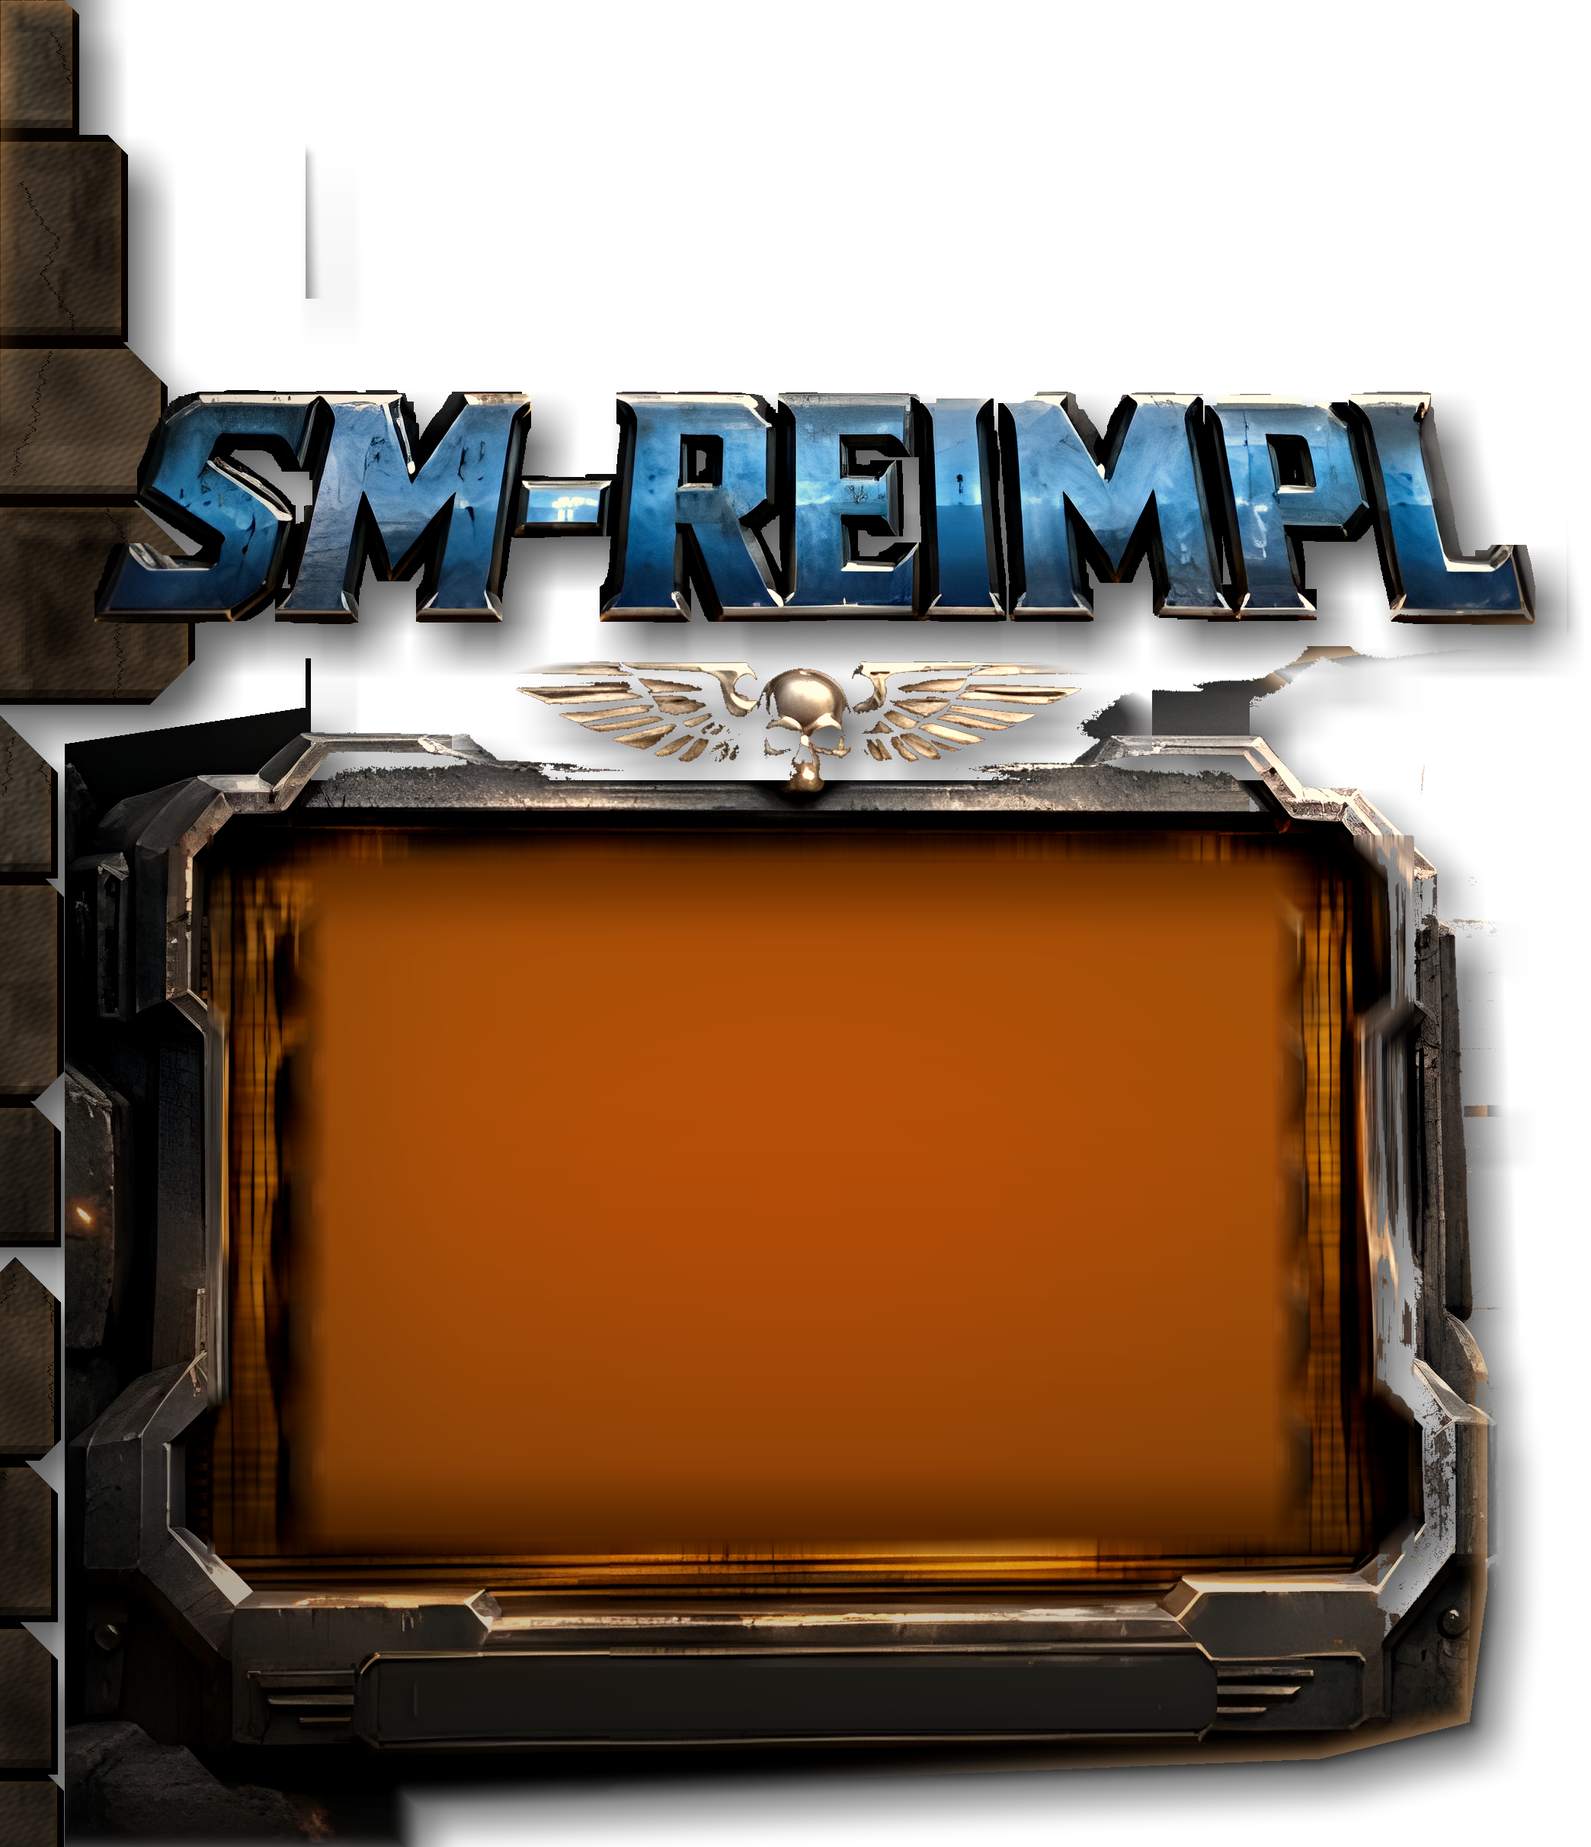
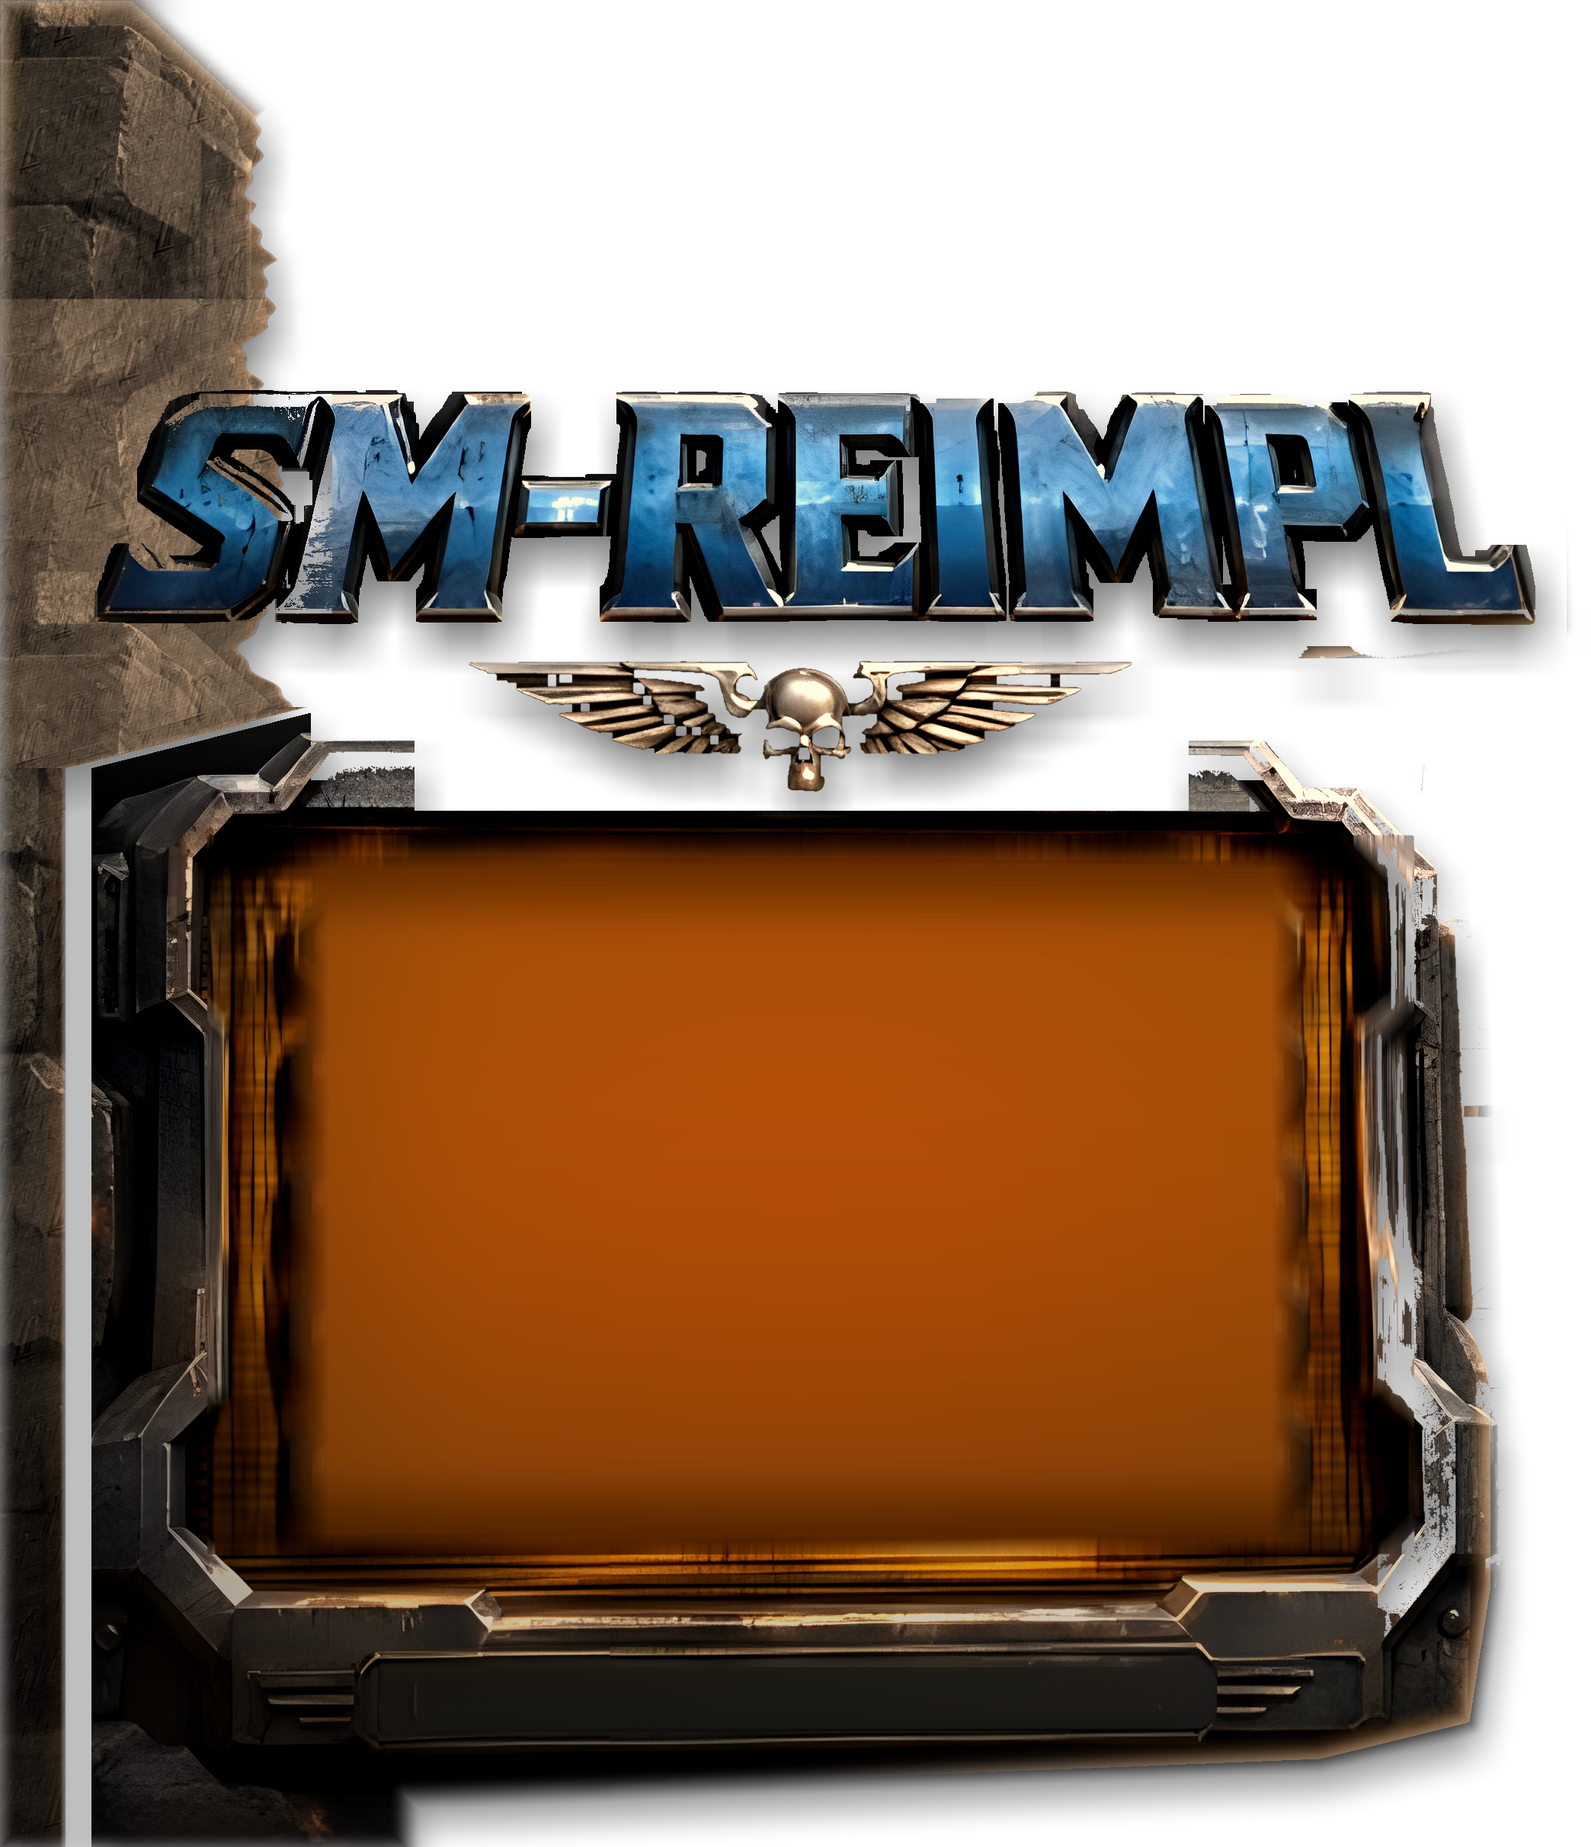
UI concept redesign, phases 2h and 2i: graded concept wall, crest matte from the 4x upscale, sky band removed, edge hugs the steel
UI self-test 1234 pass; the one failure also fails on main.

diff --git a/client/Customizer/UiTextureBuilder.cs b/client/Customizer/UiTextureBuilder.cs
@@ -75,7 +75,7 @@ public static class UiTextureBuilder
     /// <summary>The owner's orange line (his marked image, 2026-11-15) in crop pixels: everything inside is kept, outside is transparent, the edge feathered.</summary>
     static readonly Vector2[] OverlayOutline =
     [
-        new(0, 0), new(43, 0), new(99, 52), new(101, 106), new(505, 110), new(512, 205), new(416, 219), new(440, 237), new(466, 247), new(488, 276), new(488, 520),
+        new(0, 0), new(43, 0), new(99, 52), new(101, 106), new(505, 110), new(512, 205), new(416, 219), new(440, 237), new(462, 247), new(476, 262), new(478, 306), new(485, 312), new(485, 432), new(489, 446), new(489, 520),
         new(482, 565), new(433, 577), new(133, 589), new(133, 606), new(0, 606),
     ];
 
@@ -145,6 +145,12 @@ public static class UiTextureBuilder
                 {
                     // A one-pixel soft edge on the dilated mask.
                     float a = dil[y * W + x];
+                    if (x < (int)(94 * sf))
+                    {
+                        // Against the wall: dark stone stays, the concept's lighter sky between the letters goes.
+                        var q = img.GetPixel(x, y);
+                        if (Mathf.Max(q.R, Mathf.Max(q.G, q.B)) < 0.31f && q.B < q.R + 0.1f) a = 1f;
+                    }
                     bandAlpha[y * W + x] = a;
                 }
             // Under the wordmark, round the crest and along the frame's top: the concept's sky is keyed out (flood from the sky's own grey, generous tolerance); the letters' dark outline, the crest and the steel stay.
@@ -164,6 +170,9 @@ public static class UiTextureBuilder
                     bandAlpha[(skyRect.Position.Y + y) * W + skyRect.Position.X + x] = a;
                 }
             for (int y = y1; y < skyRect.Position.Y; y++) for (int x = x0; x < x1; x++) bandAlpha[y * W + x] = 1f;
+            // The sky band between the wordmark and the frame's top is gone completely; the crest is cut from the upscaled picture with its own matte (below) and sits over the video.
+            for (int y = (int)(216 * sfy); y < (int)(243 * sfy); y++) for (int x = (int)(102 * sf); x < (int)(500 * sf); x++) bandAlpha[y * W + x] = 0f;
+            CrestMatte(img, bandAlpha, W, H, sf, sfy);
         }
         // The grey haze at the frame's top-right corner and the thin strip down its right side: flooded out from the background's own grey.
         foreach (var (rx, ry, rw, rh, bx, by, tol) in new[] { (410, 200, 100, 70, 95, 4, 34f), (452, 255, 60, 320, 57, 160, 28f) })
@@ -189,7 +198,7 @@ public static class UiTextureBuilder
             }
         PaintOutNameplate(img, sf, sfy);
         if (!string.IsNullOrEmpty(masonryPath) && System.IO.File.Exists(masonryPath))
-            ReplaceWall(img, A, bandAlpha, Image.LoadFromFile(masonryPath), sf, sfy);
+            GradeWall(img, A, bandAlpha, Image.LoadFromFile(masonryPath), sf, sfy);
         FinishOverlay(img, A, D, sf, sfy);
         return img;
     }
@@ -214,6 +223,112 @@ public static class UiTextureBuilder
             }
         }
     }
+
+    /// <summary>
+    /// The concept's own painted wall (left edge and top left) graded to the video's masonry instead of replaced (owner 2026-11-15): the pixels' mean and spread per channel are moved to those of the tower's
+    /// masonry in the owner's video (<paramref name="masonry"/>, brightened and warmed for the sunset), a high-pass of that masonry is laid over as weathering at low strength, soot darkens the base, a warm
+    /// rim lights the edges that face the sun, and the outer edge is made irregular: courses end at different places with chipped corners, so it is no straight line. Seeded and reproducible.
+    /// </summary>
+    static void GradeWall(Image img, float[] A, float[] letters, Image masonry, float sf, float sfy)
+    {
+        int W = img.GetWidth(), H = img.GetHeight();
+        masonry.Convert(Image.Format.Rgba8);
+        int mw = masonry.GetWidth(), mh = masonry.GetHeight();
+        float WedgeAt(float yc) => yc < 232f ? 100f : yc < 252f ? Mathf.Lerp(100f, 21f, (yc - 232f) / 20f) : 21f;
+        double[] mo = new double[3], so = new double[3], mm = new double[3], sm = new double[3]; long no = 0;
+        for (int y = 0; y < H; y += 3)
+        {
+            int maxX = (int)(WedgeAt(y / sfy) * sf);
+            for (int x = 0; x < maxX; x += 3)
+            {
+                if (A[y * W + x] <= 0.5f) continue;
+                var c = img.GetPixel(x, y); no++;
+                mo[0] += c.R; mo[1] += c.G; mo[2] += c.B; so[0] += c.R * c.R; so[1] += c.G * c.G; so[2] += c.B * c.B;
+            }
+        }
+        long nm = 0;
+        for (int y = 0; y < mh; y++) for (int x = 0; x < mw; x++) { var c = masonry.GetPixel(x, y); nm++; mm[0] += c.R; mm[1] += c.G; mm[2] += c.B; sm[0] += c.R * c.R; sm[1] += c.G * c.G; sm[2] += c.B * c.B; }
+        if (no < 100) return;
+        float[] mean_o = new float[3], std_o = new float[3], mean_m = new float[3], std_m = new float[3];
+        for (int k = 0; k < 3; k++)
+        {
+            mean_o[k] = (float)(mo[k] / no); std_o[k] = Mathf.Max(0.02f, (float)Math.Sqrt(Math.Max(0.0, so[k] / no - mean_o[k] * mean_o[k])));
+            mean_m[k] = (float)(mm[k] / nm); std_m[k] = Mathf.Max(0.02f, (float)Math.Sqrt(Math.Max(0.0, sm[k] / nm - mean_m[k] * mean_m[k])));
+        }
+        float[] lift = [1.30f * 1.06f, 1.30f, 1.30f * 0.92f];
+        var blur = (Image)masonry.Duplicate();
+        blur.Resize(Math.Max(1, mw / 6), Math.Max(1, mh / 6), Image.Interpolation.Bilinear);
+        blur.Resize(mw, mh, Image.Interpolation.Bilinear);
+        var rng = new Random(20261116);
+        var edge = new float[H];
+        // A natural broken outline: slow waves, a finer wobble and now and then a chipped bite, nothing stair-stepped (seeded).
+        var bites = new List<(float Y, float R, float D)>();
+        for (float by = 10f; by < 230f; by += rng.Next(14, 34)) bites.Add((by * sfy, rng.Next(5, 13) * sfy, rng.Next(6, 20) * sf));
+        for (int y = 0; y < H; y++)
+        {
+            float yc = y / sfy;
+            float amp = yc < 232f ? 1f : 0f;
+            float e = WedgeAt(yc) * sf;
+            float wob = (Mathf.Sin(y * 0.021f) * 9f + Mathf.Sin(y * 0.063f + 1.1f) * 5f + Mathf.Sin(y * 0.19f + 0.4f) * 2.2f) * sf * 0.5f - 8f * sf;
+            float bite = 0f;
+            foreach (var (by, br, bd) in bites) { float dy = Mathf.Abs(y - by) / (br * 2.4f); if (dy < 1f) bite = Mathf.Max(bite, bd * 0.55f * (1f - dy * dy)); }
+            edge[y] = e + amp * (wob - bite);
+        }
+        for (int y = 0; y < H; y++)
+        {
+            float yc = y / sfy;
+            float soot = 1f - 0.34f * Mathf.SmoothStep(0.25f, 1f, y / (float)H);
+            int maxX = Math.Min(W - 1, (int)(WedgeAt(yc) * sf) + (int)(9 * sf));
+            for (int x = 0; x < maxX; x++)
+            {
+                int i = y * W + x;
+                bool letter = yc >= 98f && yc < 216f && x / sf >= 28f && letters[i] > 0.5f && NearLetter(img, x, y, (int)(5 * sf));
+                if (letter) continue;
+                if (yc >= 98f && yc < 252f && A[i] <= 0f) A[i] = 1f;   // behind the wordmark the wall runs on, whatever the key made of the concept's sky there
+                if (A[i] <= 0f) continue;
+                if (x > edge[y] + 1f) { A[i] = 0f; continue; }
+                A[i] *= Mathf.Clamp((edge[y] - x) / (3f * sf) + 0.5f, 0f, 1f);
+                var c = img.GetPixel(x, y);
+                // Behind the wordmark the concept's pixels are the dark keep of the letters' surroundings: take the wall's own stone from above instead (mirrored down the rows), so the wall runs on unbroken.
+                if (yc >= 98f && yc < 252f && x < (int)(WedgeAt(yc) * sf)) { float d = (yc - 98f) % 196f; float srcY = d < 98f ? 98f - d : d - 98f; var c1 = img.GetPixel(x, Math.Clamp((int)(srcY * sfy), 0, H - 1)); float d2 = (yc - 98f + 61f) % 196f; float srcY2 = d2 < 98f ? 98f - d2 : d2 - 98f; var c2 = img.GetPixel((x + (int)(23 * sf)) % Math.Max(1, (int)(WedgeAt(yc) * sf)), Math.Clamp((int)(srcY2 * sfy), 0, H - 1)); c = c1.Lerp(c2, 0.5f * Mathf.SmoothStep(0f, 1f, Mathf.Abs(Mathf.Sin(yc * 0.045f)))); }
+                float[] v = [c.R, c.G, c.B];
+                for (int k = 0; k < 3; k++)
+                {
+                    float z = (v[k] - mean_o[k]) / std_o[k];
+                    v[k] = (mean_m[k] + z * std_m[k] * 1.9f) * lift[k];
+                }
+                int mx = (x * 5 / 4 + y / 3) % mw, my = (y * 5 / 4 + x / 3) % mh;
+                var m = masonry.GetPixel(mx, my); var b = blur.GetPixel(mx, my);
+                float hp = (m.R * 0.3f + m.G * 0.59f + m.B * 0.11f) - (b.R * 0.3f + b.G * 0.59f + b.B * 0.11f);
+                float lm = v[0] * 0.3f + v[1] * 0.59f + v[2] * 0.11f;
+                float[] tintK = [1.05f, 1.0f, 0.93f];
+                for (int k = 0; k < 3; k++) v[k] = Mathf.Clamp(((lm + (v[k] - lm) * 0.30f) * tintK[k] + hp * 1.9f) * soot, 0f, 1f);
+                float dEdge = edge[y] - x;
+                if (dEdge < 7f * sf && dEdge >= 0f)
+                {
+                    float r = 1f - dEdge / (7f * sf);
+                    v[0] = Mathf.Min(1f, v[0] + 0.12f * r); v[1] = Mathf.Min(1f, v[1] + 0.07f * r); v[2] = Mathf.Min(1f, v[2] + 0.02f * r);
+                }
+                img.SetPixel(x, y, new Color(v[0], v[1], v[2], 1f));
+            }
+        }
+    }
+
+    /// <summary>A pixel of the lettering: saturated blue, or (the outline and shadow) dark with blue lettering within <paramref name="r"/> pixels.</summary>
+    static bool NearLetter(Image img, int x, int y, int r)
+    {
+        if (IsBlue(img.GetPixel(x, y))) return true;
+        if (Mathf.Max(img.GetPixel(x, y).R, Mathf.Max(img.GetPixel(x, y).G, img.GetPixel(x, y).B)) > 0.3f) return false;
+        for (int dy = -r; dy <= r; dy += 2)
+            for (int dx = -r; dx <= r; dx += 2)
+                if (IsBlue(img.GetPixel(Math.Clamp(x + dx, 0, img.GetWidth() - 1), Math.Clamp(y + dy, 0, img.GetHeight() - 1)))) return true;
+        return false;
+    }
+
+    static bool IsBlue(Color p) { float max = Mathf.Max(p.R, Mathf.Max(p.G, p.B)), min = Mathf.Min(p.R, Mathf.Min(p.G, p.B)); return max > 0.25f && p.B >= p.R + 0.12f && (max - min) / max > 0.35f; }
+
+    /// <summary>A pixel that belongs to the wordmark's letters (saturated blue) or their near-black outline.</summary>
+    static bool IsLetterPixel(Color p) { float max = Mathf.Max(p.R, Mathf.Max(p.G, p.B)); return p.B >= p.R + 0.10f || max < 0.14f; }
 
     /// <summary>
     /// Replaces the concept's left-edge stone with a ruined wall built from the video's own masonry (owner 2026-11-15: "match the floor and buildings in the background shot"): course by course, blocks of random
@@ -341,6 +456,65 @@ public static class UiTextureBuilder
         }
     }
 
+    /// <summary>
+    /// The skull and wings (owner: "match the concept's crest exactly"), matted from the upscaled crop: the crest is the warm or bright metal against the frame notch's dark grey backing, so a warm / bright test,
+    /// closed over the eye sockets and feather gaps and softened a pixel, is its alpha. Same size and place as in the concept (wings x 150 to 375, y 214 to 262 in crop pixels), over the video.
+    /// </summary>
+    static void CrestMatte(Image img, float[] alpha, int W, int H, float sf, float sfy)
+    {
+        int x0 = (int)(136 * sf), x1 = (int)(390 * sf), y0 = (int)(208 * sfy), y1 = (int)(266 * sfy);
+        int w = x1 - x0, h = y1 - y0;
+        var m = new float[w * h];
+        for (int y = 0; y < h; y++)
+            for (int x = 0; x < w; x++)
+            {
+                var p = img.GetPixel(x0 + x, y0 + y);
+                float cx = (x0 + x) / sf, cy = (y0 + y) / sfy;
+                float lum = p.R * 0.3f + p.G * 0.59f + p.B * 0.11f;
+                bool warm = p.R >= p.B + 0.035f && lum > 0.2f, bright = lum > 0.42f && p.R >= p.B - 0.03f;
+                bool on = warm || bright;
+                if (cy > 247f && Mathf.Abs(cx - 262f) > 15f) on = false;   // below the wings only the skull's chin; the frame's top bar is steel, not crest
+                if (cy > 263f) on = false;
+                m[y * w + x] = on ? 1f : 0f;
+            }
+        float[] Morph(float[] a, bool dilate, int r)
+        {
+            var o = new float[a.Length];
+            for (int y = 0; y < h; y++)
+                for (int x = 0; x < w; x++)
+                {
+                    float v = dilate ? 0f : 1f;
+                    for (int dy = -r; dy <= r; dy++) for (int dx = -r; dx <= r; dx++)
+                    { float q = a[Mathf.Clamp(y + dy, 0, h - 1) * w + Mathf.Clamp(x + dx, 0, w - 1)]; v = dilate ? Mathf.Max(v, q) : Mathf.Min(v, q); }
+                    o[y * w + x] = v;
+                }
+            return o;
+        }
+        int r = Math.Max(2, (int)(1.4f * sf));
+        var closed = Morph(Morph(m, true, r), false, r);
+        // Drop specks: keep only the part connected to the middle (the skull).
+        var keep = new bool[w * h]; var stack = new Stack<int>();
+        int seed = (h * 45 / 100) * w + (int)((262f - 136f) * sf);
+        if (closed[seed] > 0.5f) { stack.Push(seed); keep[seed] = true; }
+        while (stack.Count > 0)
+        {
+            int i = stack.Pop(); int x = i % w, y = i / w;
+            foreach (var (nx, ny) in new[] { (x + 1, y), (x - 1, y), (x, y + 1), (x, y - 1) })
+            {
+                if (nx < 0 || ny < 0 || nx >= w || ny >= h) continue;
+                int j = ny * w + nx;
+                if (!keep[j] && closed[j] > 0.5f) { keep[j] = true; stack.Push(j); }
+            }
+        }
+        for (int y = 0; y < h; y++)
+            for (int x = 0; x < w; x++)
+            {
+                float sum = 0f;
+                for (int dy = -1; dy <= 1; dy++) for (int dx = -1; dx <= 1; dx++) sum += keep[Mathf.Clamp(y + dy, 0, h - 1) * w + Mathf.Clamp(x + dx, 0, w - 1)] ? 1f : 0f;
+                alpha[(y0 + y) * W + x0 + x] = Mathf.SmoothStep(0.15f, 0.85f, sum / 9f);
+            }
+    }
+
     /// <summary>A vertical box blur over a rectangle (the recess's rim and sides, where the upscale left dark scan-line streaks).</summary>
     static void SmoothRecess(Image img, Rect2I r, int radius)
     {
@@ -395,7 +569,7 @@ public static class UiTextureBuilder
     {
         int W = img.GetWidth(), H = img.GetHeight();
         // Shadow: the alpha blurred and shifted down and right.
-        int sx = (int)(7 * sf), sy = (int)(9 * sfy);
+        int sx = (int)(2 * sf), sy = (int)(8 * sfy);
         var blurred = BoxBlur(A, W, H, (int)(9 * sf));
         var haze = new Color(0.62f, 0.44f, 0.30f);
         for (int y = 0; y < H; y++)
@@ -426,7 +600,7 @@ public static class UiTextureBuilder
                 // Composite over a soft contact shadow.
                 float a = A[i];
                 int si = Mathf.Clamp(y - sy, 0, H - 1) * W + Mathf.Clamp(x - sx, 0, W - 1);
-                float sh = 0.62f * blurred[si];
+                float sh = 0.5f * blurred[si];
                 float outA = a + sh * (1f - a);
                 if (outA <= 0.0001f) { img.SetPixel(x, y, new Color(0, 0, 0, 0)); continue; }
                 float k = a / outA;

diff --git a/docs/ui-concept-textures.md b/docs/ui-concept-textures.md
@@ -92,3 +92,9 @@ Font: Oswald (SIL OFL 1.1, variable weight, `client/assets/fonts/Oswald-wght.ttf
 ```
 godot.cmd -- --build-ui-textures concept-4panel-x4.png --owner-crop owner-ref-main-menu-crop.png --upscaled owner-crop-x4.png --masonry masonry-tower.png
 ```
+
+## Pass 2h/2i (owner, 2026-11-15)
+
+* The wall is the concept's own painted stone again (`GradeWall`), graded to the video's masonry: per-channel mean and spread moved to those of `masonry-tower.png`, chroma reduced to a grey-brown, a high-pass of the video's masonry laid over as weathering, soot toward the base, a weak warm rim, and a smooth irregular outer edge (slow waves plus a few shallow chips, seeded). Behind and under the wordmark the wall continues from the rows above (two mirrored phases blended), so no concept sky box remains there.
+* The sky band between the wordmark and the frame's top is removed completely; the skull and wings are matted from the 4x upscaled crop (`CrestMatte`: warm or bright metal against the dark backing, closed over the eye sockets, kept only if connected to the skull), at the concept's size and place, graded like the frame.
+* The overlay's right edge follows the frame's steel (polygon points moved in), and the contact shadow is offset down only (2 crop px right), so no grey strip shows beside the steel.
